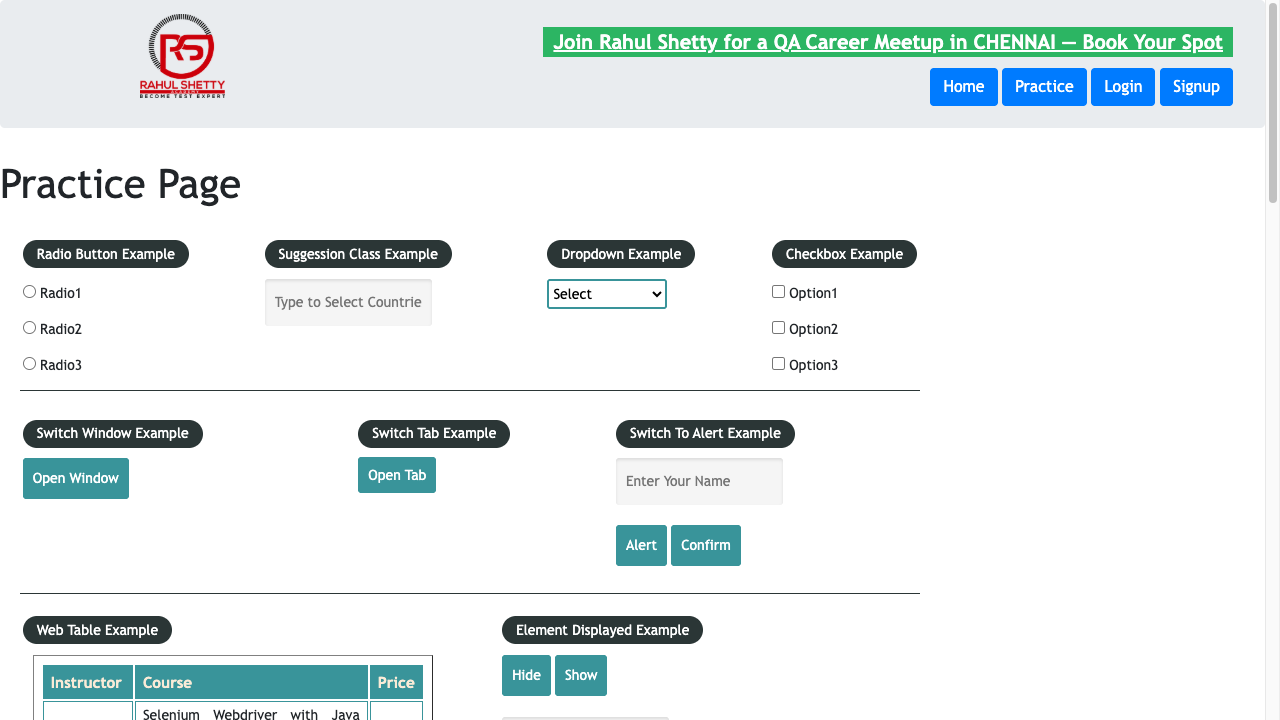
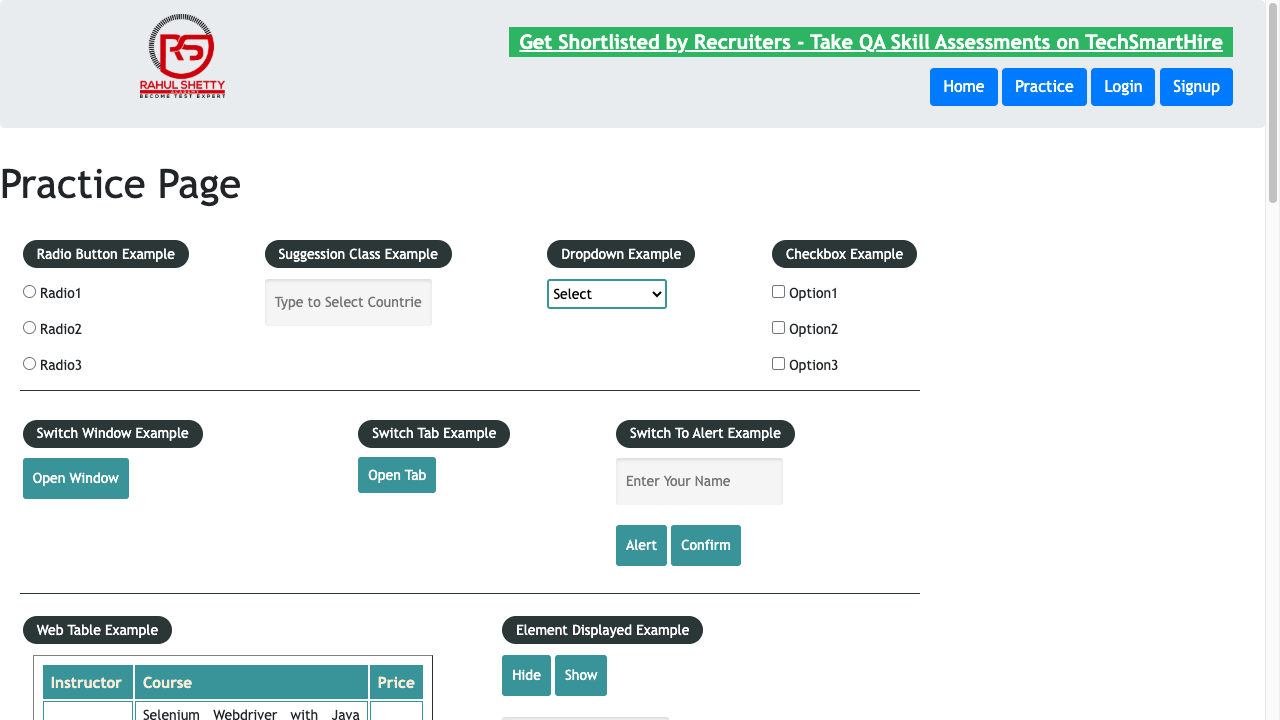
fixed failed test cases d and n

Changed region(s): [[0.375, 0.0306, 0.9688, 0.0917]]

diff --git a/tests/n_screenshotvisualcomparison.spec.js b/tests/n_screenshotvisualcomparison.spec.js
@@ -42,8 +42,13 @@ test.only("Visual Screen Comparison With Screenshots", async ({page}) => {
     const hideTextBoxArea = page.locator(".right-align:nth-child(2)");
     //await hideTextBoxArea.screenshot({path: 'textBoxBeforeHide.png'});
 
+    // Wait for network to fully settle before screenshotting
+    await page.waitForLoadState('networkidle');
+
     //now we will compare the baseliene screenshot we took above for the entire page
-    expect(await page.screenshot({path: 'todayEntirePageSS.png'})).toMatchSnapshot('baselineEntirepage.png');
+      //this will most likely never match because of the dynamic nature of the page, but it is a good example of how to do a visual comparison for the entire page
+        //added maxDiffPixelRatio to allow for a small percentage of pixels to be different before the test fails, which is useful for dynamic pages where there may be slight variations in rendering or content that do not indicate a real issue
+    expect(await page.screenshot({path: 'todayEntirePageSS.png'})).toMatchSnapshot('baselineEntirepage.png', { maxDiffPixelRatio: 0.01 });
 
     //now we will compare the baseline screenshot we took above for just the text box area
         //this will occur each time we do screenshots

diff --git a/tests/d_handleuicompentnts.spec.js b/tests/d_handleuicompentnts.spec.js
@@ -79,7 +79,7 @@ test.only("UI - Free Access...Material URL Takes User To Correct Page and Has Co
     //This pattern prevents flakiness by eliminating the race condition of the new page appearing before the listener is ready
     const newPage =  Promise.all(
         [page.waitForEvent('popup'), //to intercept the new tab that opens
-            page.locator(".blinkingText").click()
+            page.locator("[href*='documents-request']").click()
         ]
     )
     
